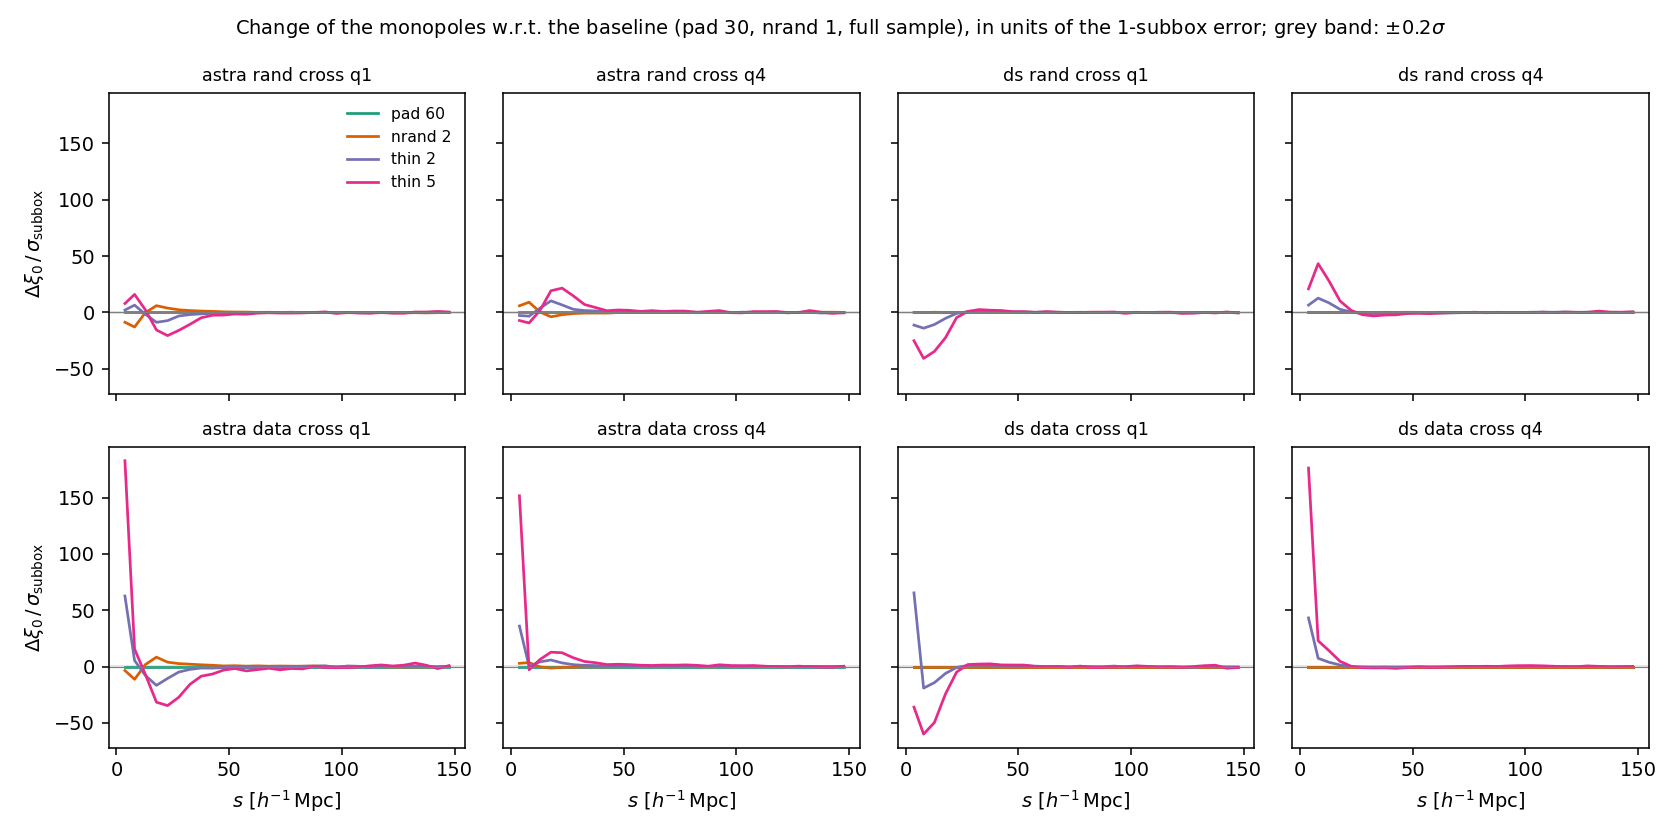
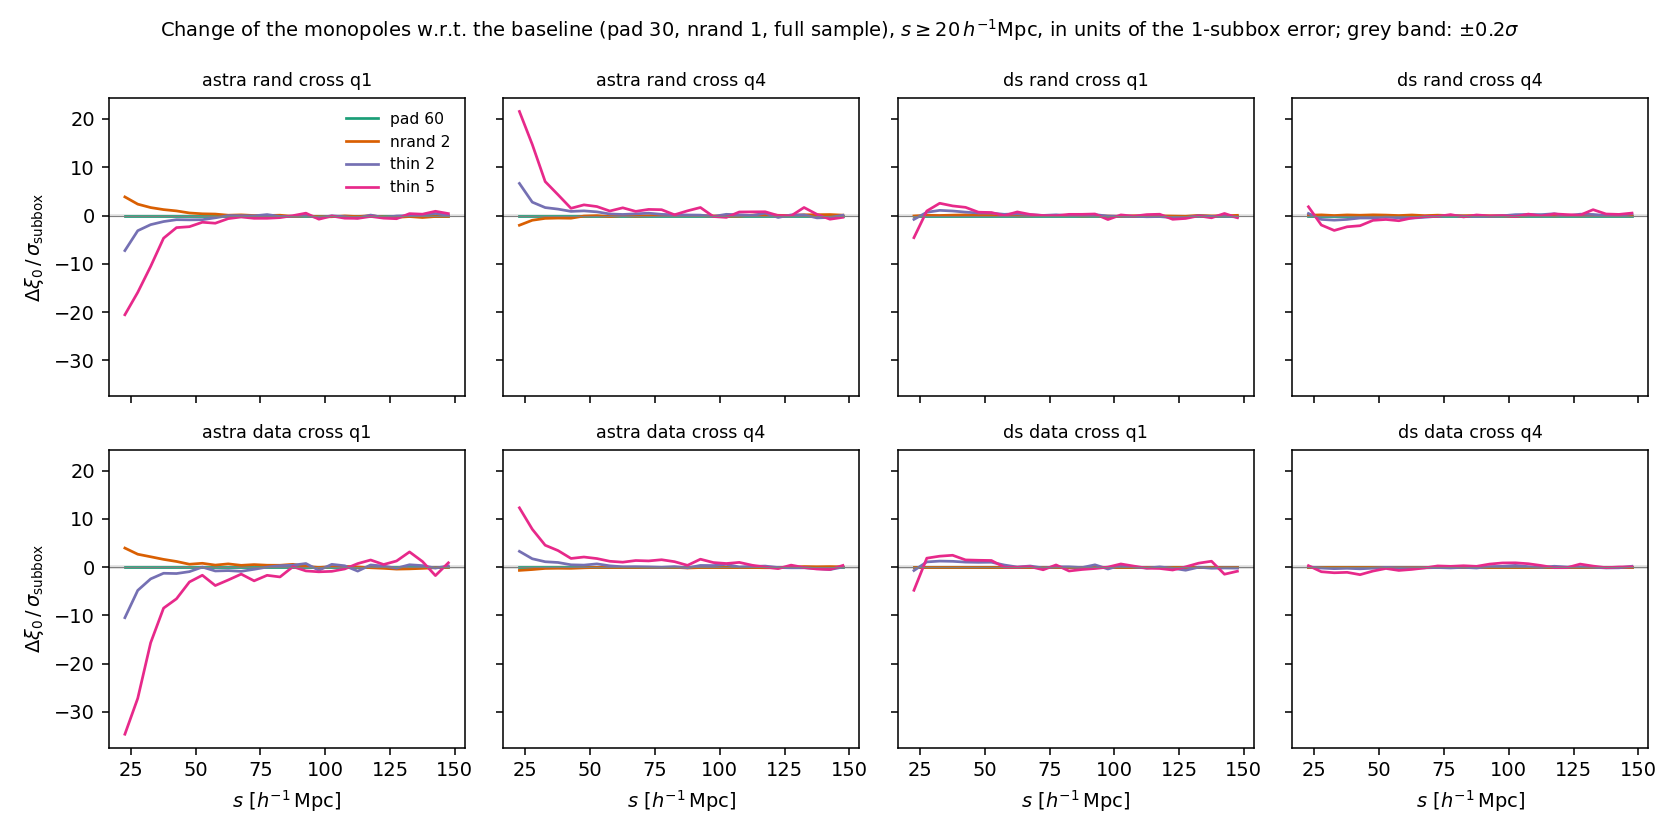
Robustness results in the paper; replot option

diff --git a/paper/main.tex b/paper/main.tex
@@ -231,14 +231,29 @@ These forecasts are at fixed HOD parameters. They measure the information conten
 \label{sec:robustness}
 % =====================================================================
 
-\todo{Results of \texttt{scripts/robustness.py}: (i) padding $30\to60\Mpch$, (ii) $N_r/N_g = 1\to2$, (iii) thinning by 2 and 5 (shift of the quartile multipoles in units of the one-subvolume error), (iv) stability of $r$ of the same galaxies under thinning by 2, 5, 10 (Spearman correlation, quartile retention).}
+We test the sensitivity of the measurements to the numerical choices on the first 8 subvolumes of the fiducial catalogue (line of sight $z$). Each test is repeated for both methods, and the change of the Q1 and Q4 cross-correlation monopoles is expressed in units of the statistical error of one subvolume (Figure~\ref{fig:robustness}).
+
+\paragraph{Periodic padding.} Increasing the padding around each subvolume from 30 to $60\Mpch$ leaves the ASTRA values of $r$, and therefore all the statistics, unchanged: the Delaunay neighbourhood of every point of the subvolume is already contained in the $30\Mpch$ padding.
+
+\paragraph{Number of randoms.} Doubling the number of random points in the tessellation ($N_r = 2N_g$) shifts the ASTRA Q1 cross-correlations by up to $4\sigma$ and the Q4 ones by up to $2\sigma$ at $s\lesssim 40\Mpch$, while density split, for which the randoms are only query points, changes by less than $0.2\sigma$. In ASTRA the randoms enter the definition of $r$ itself (Eq.~\ref{eq:astra_r}), so the ratio $N_r/N_g$ is a parameter of the statistic and must be kept fixed.
+
+\paragraph{Sampling density.} Randomly thinning the galaxies (and the randoms in the same proportion) by a factor 2 (5) shifts the ASTRA cross-correlations by 7--10 (20--35) $\sigma$ at $s\simeq20$--$40\Mpch$, against $\sim1$ (3--5) $\sigma$ for density split. At the level of individual points, the rank correlation between the $r$ of the same galaxies computed in the full and in the thinned samples is only $0.65$, $0.38$ and $0.24$ for thinning factors of 2, 5 and 10, and only 58\%, 42\% and 36\% of the galaxies of the extreme quartiles keep their quartile.
+
+This is an intrinsic property of the estimator rather than a numerical instability. ASTRA is an \emph{adaptive-scale} statistic: the environment of a point is defined by its Delaunay neighbours, so its effective scale is the typical distance between neighbours, $\propto \bar n^{-1/3}$, and it changes with the sampling density. Thinning the sample enlarges this scale, which explains why the changes are concentrated at $s\lesssim50\Mpch$, whereas density split keeps a fixed smoothing radius. This is not a limitation for the present analysis nor for an application to DESI, since the number density is fixed in the mocks as in the data (and in an emulator trained at that density). It implies however that ASTRA statistics must always be compared, modelled and emulated at the same number density and with the same random-to-galaxy ratio, and that comparisons with density split should be made at equal density, as is the case throughout this paper.
+
+\begin{figure*}[t]
+\centering
+\includegraphics[width=0.9\textwidth]{v2_robustness.png}
+\caption{Change of the Q1 and Q4 cross-correlation monopoles (top: random quartiles, bottom: galaxy quartiles) when the padding is doubled (green), the number of ASTRA randoms is doubled (orange), and the galaxies are thinned by 2 (purple) and 5 (pink), relative to the baseline and in units of the error of one $(500\Mpch)^3$ subvolume, for $s\geq20\Mpch$. Mean over 8 subvolumes of the fiducial catalogue.}
+\label{fig:robustness}
+\end{figure*}
 
 % =====================================================================
 \section{Discussion and limitations}
 \label{sec:discussion}
 % =====================================================================
 
-\paragraph{HOD mismatch in the derivatives.} The emulator catalogues are not HOD-matched across cosmologies. Our selection reduces the mismatch by a factor of two but does not cancel it, so the finite differences contain a residual response to the HOD parameters, smooth in scale and mostly affecting the amplitude. It is expected to matter most for $\sigma_8$, whose effect is also mainly an amplitude. A clean solution is an emulator of the statistics as a function of cosmological \emph{and} HOD parameters, trained on the full Latin hypercube, whose derivatives can be taken at fixed HOD.
+\paragraph{HOD mismatch in the derivatives.} The emulator catalogues are not HOD-matched across cosmologies. Our selection reduces the mismatch by a factor of two but does not cancel it, so the finite differences contain a residual response to the HOD parameters, smooth in scale and mostly affecting the amplitude. It is expected to matter most for $\sigma_8$, whose effect is also mainly an amplitude. In practice the paired differences are measured with high precision (the error of the mean over the 192 paired samples is small), but they are dominated by this HOD response: the implied change of the 2PCF reaches tens of percent at $s\sim20\Mpch$ for a 2\% change in $\omega_b$, and the derivative vectors with respect to $\omega_b$, $n_s$ and $\sigma_8$ are almost collinear (correlation coefficients 0.95--0.99 in the Fisher metric), so that the raw Fisher matrices are close to singular. We therefore calibrate the response of the statistics to the HOD parameters with additional fiducial catalogues and subtract it from the pair differences before computing the forecasts (Section~\ref{sec:fisher}). A clean solution is an emulator of the statistics as a function of cosmological \emph{and} HOD parameters, trained on the full Latin hypercube, whose derivatives can be taken at fixed HOD.
 
 \paragraph{Single phase.} All the cosmologies share one set of initial conditions, so the covariance relies on subvolumes of one box, measured along three correlated lines of sight. Larger sets of independent small boxes would remove both the subvolume approximation and the limit on the size of the data vector imposed by the Hartlap factor.
 

diff --git a/scripts/robustness.py b/scripts/robustness.py
@@ -70,13 +70,14 @@ def thinning_test(nbox, factors=(2, 5, 10), seed=42):
     return {f: {k: np.array(v) for k, v in d.items()} for f, d in res.items()}
 
 
-def plot_measurements(meas, sigma, s, out):
+def plot_measurements(meas, sigma, s, out, smin=20.):
+    keep = s >= smin
     fig, axes = plt.subplots(2, len(STATS) // 2, figsize=(3.2 * len(STATS) // 2, 6), sharex=True, sharey=True)
     base = meas['baseline']
     for ax, stat in zip(axes.flat, STATS):
         for name, color in zip(TESTS, ['#1b9e77', '#d95f02', '#7570b3', '#e7298a']):
             diff = (meas[name][stat][:, 0] - base[stat][:, 0]).mean(0) / sigma[stat]
-            ax.plot(s, diff, color=color, lw=1.4, label=name)
+            ax.plot(s[keep], diff[keep], color=color, lw=1.4, label=name)
         ax.axhspan(-0.2, 0.2, color='0.9')
         ax.axhline(0, color='0.5', lw=0.6)
         ax.set_title(stat.replace('_', ' '), fontsize=9)
@@ -85,7 +86,7 @@ def plot_measurements(meas, sigma, s, out):
     for ax in axes[:, 0]:
         ax.set_ylabel(r'$\Delta\xi_0\,/\,\sigma_{\rm subbox}$')
     axes[0, 0].legend(fontsize=8, frameon=False)
-    fig.suptitle('Change of the monopoles w.r.t. the baseline (pad 30, nrand 1, full sample), '
+    fig.suptitle(f'Change of the monopoles w.r.t. the baseline (pad 30, nrand 1, full sample), $s \\geq {smin:g}\\,h^{{-1}}$Mpc, '
                  'in units of the 1-subbox error; grey band: $\\pm0.2\\sigma$', fontsize=10)
     fig.tight_layout()
     fig.savefig(out, dpi=140)
@@ -97,8 +98,16 @@ def main():
     parser = argparse.ArgumentParser()
     parser.add_argument('--nbox', type=int, default=8)
     parser.add_argument('--nthreads', type=int, default=8)
+    parser.add_argument('--plot-only', action='store_true', help='replot from data/robustness.npz')
     args = parser.parse_args()
     (ROOT / 'plots').mkdir(exist_ok=True)
+    if args.plot_only:
+        d = np.load(A.DATA / 'robustness.npz')
+        meas = {name: {st: d[f'{name}/{st}'] for st in STATS} for name in ['baseline'] + list(TESTS)}
+        meta, fstats, _ = A.load(A.selection()['fiducial']['cosmo'], A.selection()['fiducial']['hod'], los=['z'])
+        sigma = {stat: fstats[stat][:, 0].std(0, ddof=1) for stat in STATS}
+        plot_measurements(meas, sigma, d['s'], ROOT / 'plots' / 'robustness_measurements.png')
+        return
 
     thin = thinning_test(args.nbox)
     print('\nASTRA r of the same galaxies, full vs thinned sample (mean over subboxes)')
